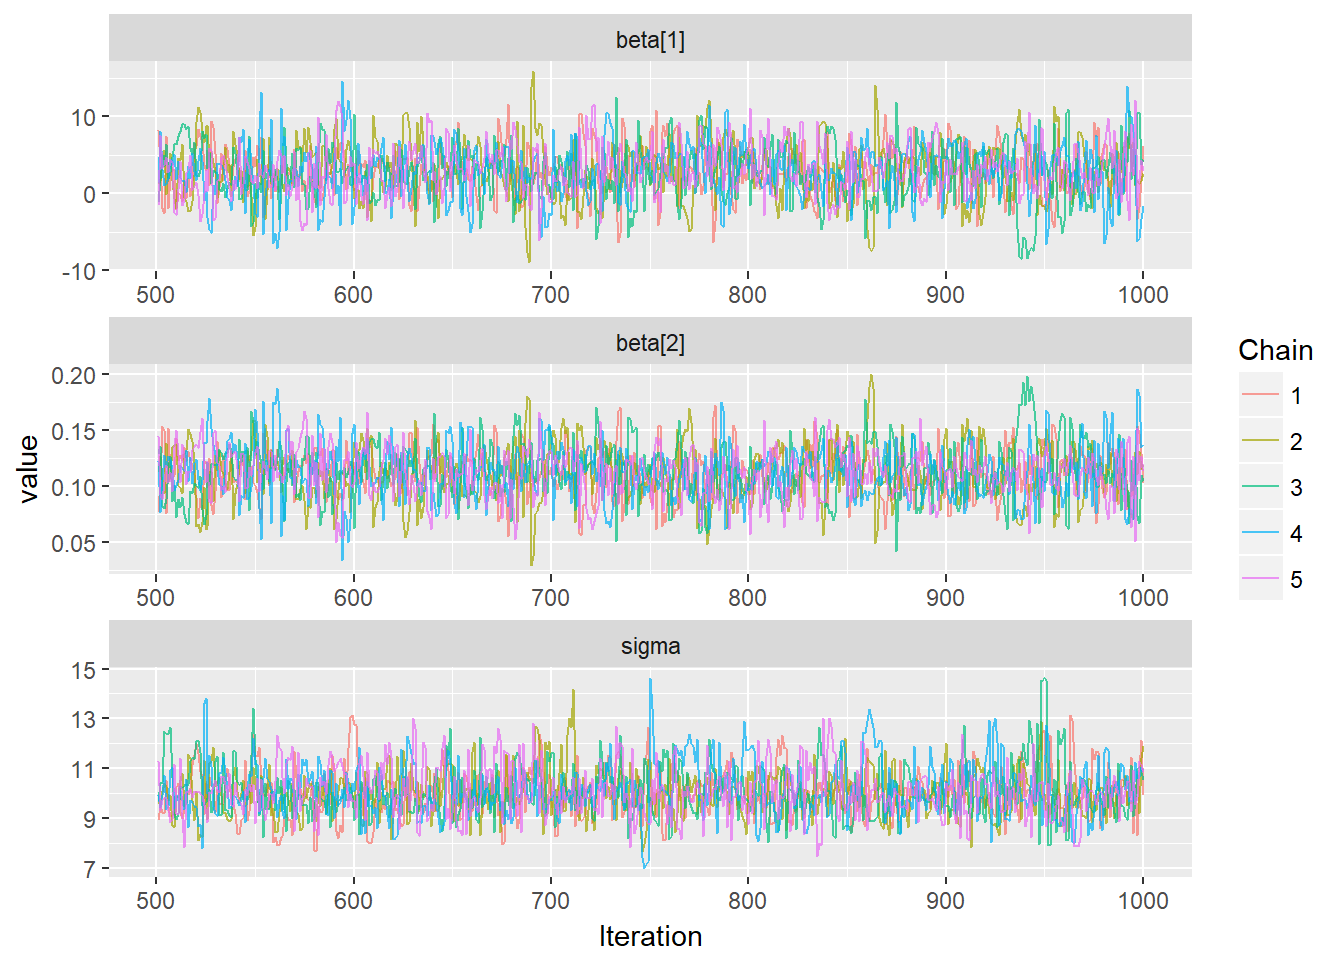
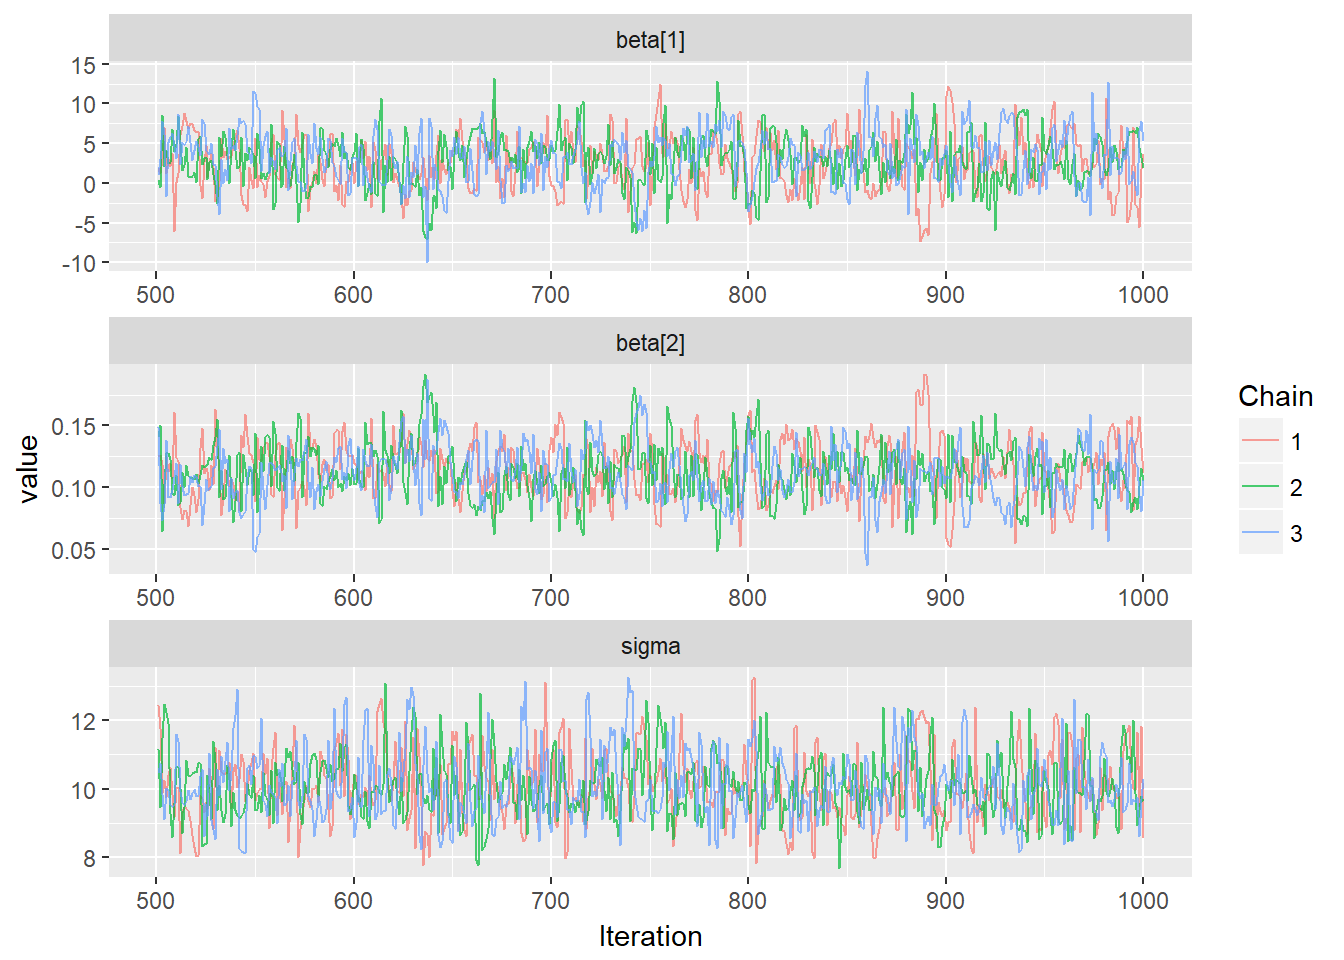
fixed typos to 05-B

diff --git a/05-B-Bayesian-priors.html b/05-B-Bayesian-priors.html
@@ -792,22 +792,22 @@ N &lt;-<span class="st"> </span><span class="kw">nrow</span>(Loyn)
 datax &lt;-<span class="st"> </span><span class="kw">list</span>(<span class="st">&quot;N&quot;</span>, <span class="st">&quot;x&quot;</span>, <span class="st">&quot;y&quot;</span>)
 
 <span class="co"># Run Stan</span>
-mod &lt;-<span class="st"> </span><span class="kw">stan</span>(<span class="dt">file =</span> <span class="st">&quot;code/05-B.stan&quot;</span>, <span class="dt">data=</span>datax, <span class="dt">chains=</span><span class="dv">5</span>, <span class="dt">iter=</span><span class="dv">1000</span>)</code></pre></div>
+mod &lt;-<span class="st"> </span><span class="kw">stan</span>(<span class="dt">file =</span> <span class="st">&quot;code/05-B.stan&quot;</span>, <span class="dt">data=</span>datax, <span class="dt">chains=</span><span class="dv">3</span>, <span class="dt">iter=</span><span class="dv">1000</span>)</code></pre></div>
 <p><br></p>
 </div>
 <div id="step-6-mcmc-analysis" class="section level4">
 <h4>Step 6: MCMC analysis</h4>
 <div class="sourceCode"><pre class="sourceCode r"><code class="sourceCode r"><span class="kw">print</span>(mod, <span class="kw">c</span>(<span class="st">&quot;beta&quot;</span>, <span class="st">&quot;sigma&quot;</span>)) <span class="co"># Printing the MCMC output</span></code></pre></div>
 <pre><code>## Inference for Stan model: 05-B.
-## 5 chains, each with iter=1000; warmup=500; thin=1; 
-## post-warmup draws per chain=500, total post-warmup draws=2500.
+## 3 chains, each with iter=1000; warmup=500; thin=1; 
+## post-warmup draws per chain=500, total post-warmup draws=1500.
 ## 
 ##          mean se_mean   sd  2.5%  25%  50%   75% 97.5% n_eff Rhat
-## beta[1]  2.89    0.10 3.49 -4.16 0.66 2.86  5.24  9.69  1164    1
-## beta[2]  0.11    0.00 0.02  0.07 0.10 0.11  0.13  0.16  1191    1
-## sigma   10.09    0.03 1.02  8.31 9.40 9.97 10.67 12.33  1145    1
+## beta[1]  2.81    0.16 3.37 -3.81 0.41 2.95  5.02  9.11   420 1.01
+## beta[2]  0.11    0.00 0.02  0.07 0.10 0.11  0.13  0.16   409 1.01
+## sigma   10.07    0.04 1.00  8.34 9.37 9.95 10.68 12.28   762 1.00
 ## 
-## Samples were drawn using NUTS(diag_e) at Wed Oct 25 09:16:01 2017.
+## Samples were drawn using NUTS(diag_e) at Wed Oct 25 10:35:37 2017.
 ## For each parameter, n_eff is a crude measure of effective sample size,
 ## and Rhat is the potential scale reduction factor on split chains (at 
 ## convergence, Rhat=1).</code></pre>
@@ -829,12 +829,12 @@ mod &lt;-<span class="st"> </span><span class="kw">stan</span>(<span class="dt">
 mcmcData &lt;-<span class="st"> </span><span class="kw">ggs</span>(mod) 
 
 <span class="kw">str</span>(mcmcData)</code></pre></div>
-<pre><code>## Classes &#39;tbl_df&#39;, &#39;tbl&#39; and &#39;data.frame&#39;:    7500 obs. of  4 variables:
+<pre><code>## Classes &#39;tbl_df&#39;, &#39;tbl&#39; and &#39;data.frame&#39;:    4500 obs. of  4 variables:
 ##  $ Iteration: num  1 2 3 4 5 6 7 8 9 10 ...
 ##  $ Chain    : int  1 1 1 1 1 1 1 1 1 1 ...
 ##  $ Parameter: Factor w/ 3 levels &quot;beta[1]&quot;,&quot;beta[2]&quot;,..: 1 1 1 1 1 1 1 1 1 1 ...
-##  $ value    : num  8.22 4.08 -1.93 -2.52 7.46 ...
-##  - attr(*, &quot;nChains&quot;)= int 5
+##  $ value    : num  1.8 1.24 3.03 7.03 1.2 ...
+##  - attr(*, &quot;nChains&quot;)= int 3
 ##  - attr(*, &quot;nParameters&quot;)= int 3
 ##  - attr(*, &quot;nIterations&quot;)= num 500
 ##  - attr(*, &quot;nBurnin&quot;)= num 500
@@ -861,14 +861,14 @@ modSims &lt;-<span class="st"> </span>rstan::<span class="kw">extract</span>(mod
 
 <span class="kw">str</span>(modSims)</code></pre></div>
 <pre><code>## List of 3
-##  $ beta : num [1:2500, 1:2] 3.85 5.36 1.6 7.47 4.21 ...
+##  $ beta : num [1:1500, 1:2] 2.457 2.9453 -0.0883 -1.2331 -1.0676 ...
 ##   ..- attr(*, &quot;dimnames&quot;)=List of 2
 ##   .. ..$ iterations: NULL
 ##   .. ..$           : NULL
-##  $ sigma: num [1:2500(1d)] 11.76 9.53 9.93 9.6 11.46 ...
+##  $ sigma: num [1:1500(1d)] 10.71 9.83 9.62 9.45 9.33 ...
 ##   ..- attr(*, &quot;dimnames&quot;)=List of 1
 ##   .. ..$ iterations: NULL
-##  $ lp__ : num [1:2500(1d)] -157 -156 -156 -157 -158 ...
+##  $ lp__ : num [1:1500(1d)] -156 -156 -156 -157 -157 ...
 ##   ..- attr(*, &quot;dimnames&quot;)=List of 1
 ##   .. ..$ iterations: NULL</code></pre>
 <div class="sourceCode"><pre class="sourceCode r"><code class="sourceCode r"><span class="co"># Scatter plots of parameters to look for correlations</span>
@@ -917,7 +917,7 @@ linearModel &lt;-<span class="st"> </span><span class="kw">lm</span>(ABUND ~<spa
 <h3>Discussion Questions</h3>
 <ul>
 <li>Why is the <span class="math inline">\(\hat{R}\)</span> threshold set at 1.02 (or less strictly at 1.1)?</li>
-<li>How can mixing or homogenours sampling be discerned in the traceplots?</li>
+<li>How can mixing or homogenous sampling be discerned in the traceplots?</li>
 <li>What’s the golden rule when it comes to choosing optimal priors? They should not be (1) too strong, so that they are not providing us with additional information (not found in the dataset - too much overlap between prior and posterior), but also not too weak (2) to not influence the results due to lack of prior knowledge. Is there a better way than exploring different options via trail and error?</li>
 </ul>
 </div>
